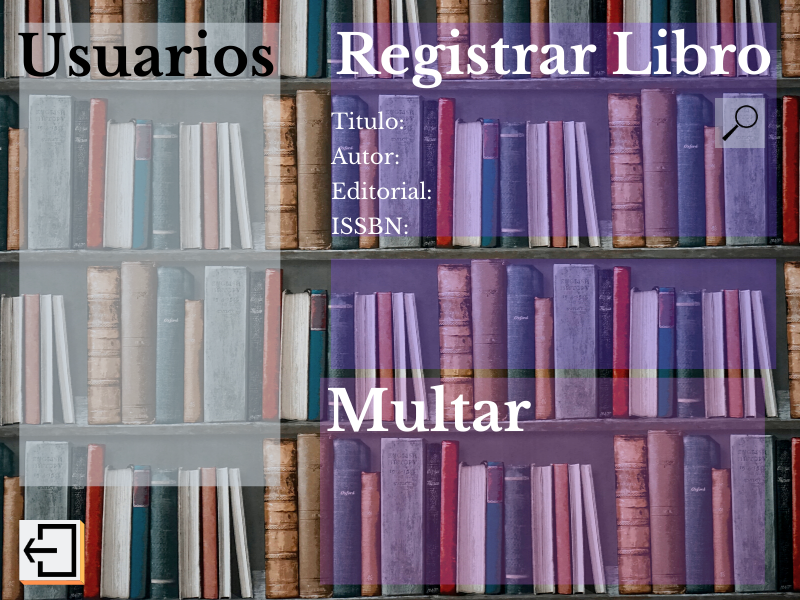
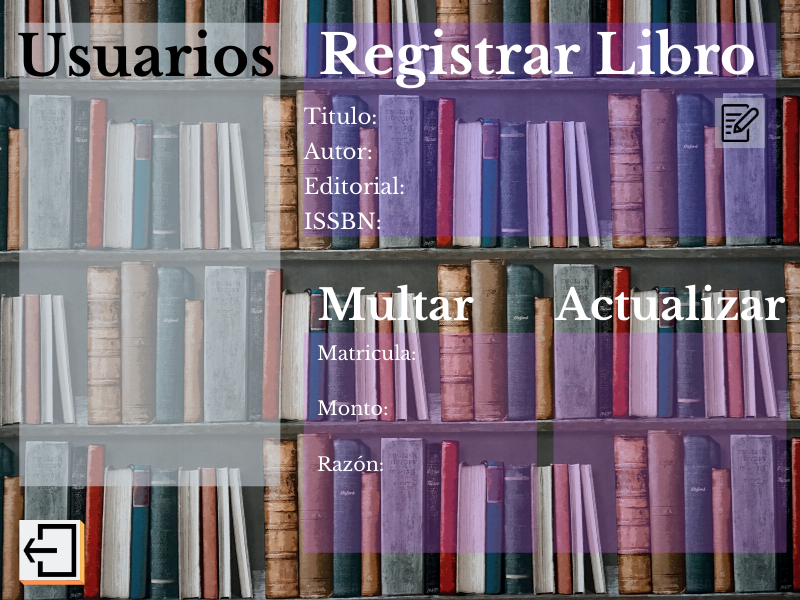
VistaAdmin completamente grafica

Changed region(s): [[0.375, 0.42, 1.0, 0.99], [0.375, 0.03, 0.9688, 0.42]]

diff --git a/Menu.java b/Menu.java
@@ -5,8 +5,9 @@ import java.awt.event.ActionListener;
 import java.util.ArrayList;
 
 public class Menu {
-    public JTextField user, password,busTitulo,busAutor,busEdit,libroReserva, regAutor, regTitulo, regEditorial, regIssbn;
-    public JButton login,buscar,reservar, retorno1, retorno2, registrar, bloquear;
+    public JTextField user, password,busTitulo,busAutor,busEdit,libroReserva, 
+                      regAutor, regTitulo, regEditorial, regIssbn, mulMonto, mulMatri, mulRazon;
+    public JButton login,buscar,reservar, retorno1, retorno2, registrar, bloquear, multar, actMulta, actReser;
     public Sistema s;
     public boolean conflog;
 
@@ -244,7 +245,56 @@ public class Menu {
 
         bloquear = new JButton("Bloquear");
         bloquear.setBounds(170,490,90,50);
+        bloquear.addActionListener(new ActionListener(){
+            @Override
+            public void actionPerformed(ActionEvent e) {
+                System.out.println("BLOQUEANDO");
+            }
+        });
         vistaAdmin.add(bloquear);
+
+        multar = new JButton("Multar");
+        multar.setBounds(375,490,90,50);
+        multar.addActionListener(new ActionListener(){
+            @Override
+            public void actionPerformed(ActionEvent e) {
+                System.out.println("MULTANDO");
+            }
+        });
+        vistaAdmin.add(multar);
+
+        mulRazon = new JTextField();
+        mulRazon.setBounds(425,453,100,20);
+        vistaAdmin.add(mulRazon);
+
+        mulMonto = new JTextField();
+        mulMonto.setBounds(425,400,100,20);
+        vistaAdmin.add(mulMonto);
+
+        mulMatri = new JTextField();
+        mulMatri.setBounds(425,344,100,20);
+        vistaAdmin.add(mulMatri);
+        
+        actMulta = new JButton("Actualizar Multa");
+        actMulta.setBounds(580,360,180,80);
+        actMulta.addActionListener(new ActionListener(){
+            @Override
+            public void actionPerformed(ActionEvent e) {
+                System.out.println("ActMulta");
+            }
+        });
+        vistaAdmin.add(actMulta);
+
+        actReser = new JButton("Actualizar Reservacion");
+        actReser.setBounds(580,460,180,80);
+        actReser.addActionListener(new ActionListener(){
+            @Override
+            public void actionPerformed(ActionEvent e) {
+                System.out.println("ActRESERRRERERERERERERE HELP ME I NEED SLEEP");
+            }
+        });
+        vistaAdmin.add(actReser);
+
 
         cl.show(panCont,"Log");
     }
